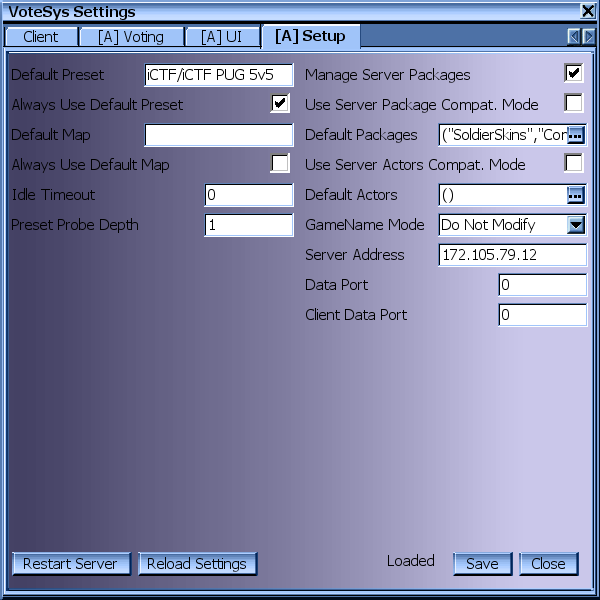
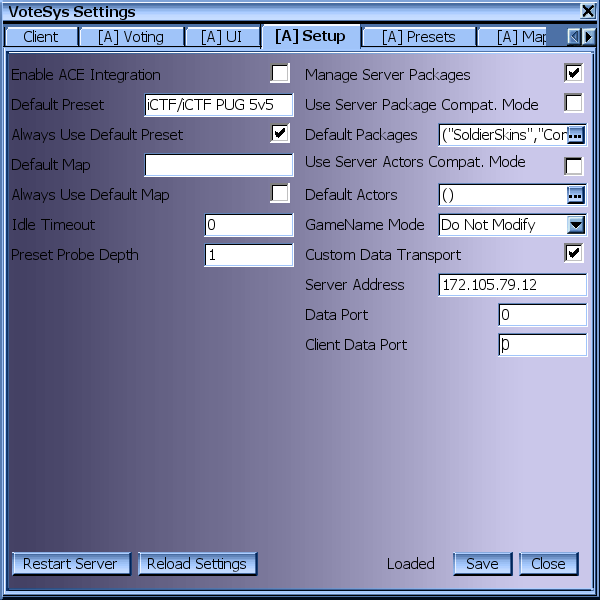
Add Fallback Data Transport

diff --git a/Docs/setup.md b/Docs/setup.md
@@ -44,6 +44,7 @@ KickVoteThreshold=0.6
 DefaultTimeMessageClass=Botpack.TimeMessage
 DefaultPreset=DM/Team DeathMatch
 DefaultMap=DM-Deck16
+bEnableCustomDataTransport=True
 ServerAddress=
 DataPort=0
 ClientDataPort=0
@@ -92,6 +93,7 @@ DefaultActors=IpServer.UdpServerUplink MasterServerAddress=unreal.epicgames.com 
 1. [bAlwaysUseDefaultPreset](#balwaysusedefaultpreset)
 1. [DefaultMap](#defaultmap)
 1. [bAlwaysUseDefaultMap](#balwaysusedefaultmap)
+1. [bEnableCustomDataTransport](#benablecustomdatatransport)
 1. [ServerAddress](#serveraddress)
 1. [DataPort](#dataport)
 1. [ClientDataPort](#clientdataport)
@@ -203,6 +205,13 @@ Empty by default.
 Specifies the map that VoteSys should switch to when using `DefaultPreset`. If empty, a random map will be selected. Map must be part of the map list for `DefaultPreset`, otherwise it will be treated as if no map was specified.
 
 Empty by default.
+
+### bEnableCustomDataTransport
+
+If True, server and clients use a separate TCP (not UDP) connection to transmit preset and map data. This connection is not subject to engine limits on data transfers and can thus happen much more quickly.
+If False, server and client use an actor to transmit preset and map data. This connection is established through the engine, so it is slower. It is also much more likely to work on managed servers with strict firewalls.
+
+True by default.
 
 ### ServerAddress
 
